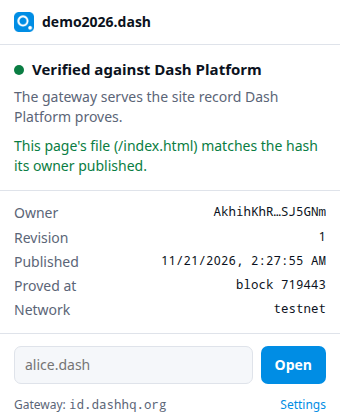
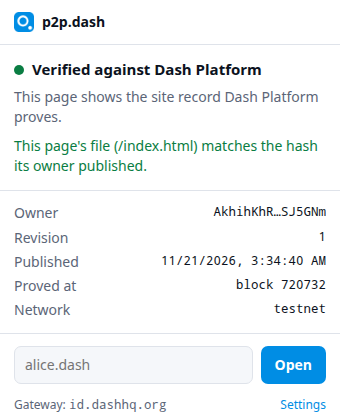
feat(showcase): explain in-browser verification and what is still trusted

diff --git a/packages/showcase/site/how/index.html b/packages/showcase/site/how/index.html
@@ -26,7 +26,7 @@
 <ol class="flow">
   <li>
     <div class="what">You ask for <span class="live" data-name>p2p.dash</span></div>
-    <p>Type the name with the extension installed, or open it through a gateway such as <code>p2p.id.dashhq.org</code>.</p>
+    <p>Open it through a gateway host such as <code>p2p.id.dashhq.org</code>, or type the name itself with the extension installed.</p>
   </li>
   <li>
     <div class="what">Name document <span class="live" id="r-domain">…</span><br>owned by <span class="live" id="r-owner">…</span></div>
@@ -46,21 +46,23 @@
   </li>
 </ol>
 
-<h2>Two ways to open a .dash site</h2>
+<h2>Who does the checking</h2>
 <div class="cols two">
   <div>
-    <h3>With the extension, by its real name</h3>
-    <p>Type <code>p2p.dash</code>. The extension takes you to a gateway of your choice, then asks Dash Platform itself and compares the answer, and the page's bytes, with what the gateway served.</p>
-    <figure>
-      <img class="shot" src="/img/extension.png" alt="The Dash Sites extension reporting a site as verified against Dash Platform" width="341" height="424" loading="lazy">
-      <figcaption>The extension reporting what it proved</figcaption>
-    </figure>
+    <h3>Your browser, in any browser</h3>
+    <p>Open <code>p2p.id.dashhq.org</code>. The gateway sends one small page, the same for every name, and a verifier. From then on your browser talks to Dash Platform nodes itself: it proves the name and the site record, fetches the files, checks each hash, and shows the site.</p>
+    <p class="via-browser">That is how you are reading this page. The server that sent the verifier has not seen or sent a byte of it.</p>
+    <p class="via-gateway">You are reading a copy rendered by the gateway instead, which it does for crawlers, link previews and command-line tools.</p>
+    <p>After the first visit the site keeps working even if the gateway disappears.</p>
   </div>
   <div>
-    <h3>In any browser, through a gateway</h3>
-    <p>Open <code>p2p.id.dashhq.org</code>. The gateway does the same lookups and checks, then serves the files over ordinary HTTPS. Nothing to install, and you are trusting the gateway to pass on what it read.</p>
-    <p class="via-gateway">That is how you are reading this page now. <a href="https://github.com/PastaPastaPasta/dash-sites/releases/latest" target="_blank" rel="noopener">Get the extension</a> to drop the gateway.</p>
-    <p>Anyone can run a gateway. The software is open source and holds no keys: it can only read what owners published.</p>
+    <h3>The extension, by its real name</h3>
+    <p>With the extension you type <code>p2p.dash</code> and land on the same verifier. Its button asks Dash Platform a second time, with its own copy of the SDK, and compares the answer with the page in front of you.</p>
+    <figure>
+      <img class="shot" src="/img/extension.png" alt="The Dash Sites extension reporting p2p.dash as verified against Dash Platform" width="340" height="420" loading="lazy">
+      <figcaption>The extension reporting what it proved</figcaption>
+    </figure>
+    <p style="margin-top:14px"><a href="https://github.com/PastaPastaPasta/dash-sites/releases/latest" target="_blank" rel="noopener">Get the extension</a></p>
   </div>
 </div>
 
@@ -69,6 +71,14 @@
   <div>
     <h3>The network's validators</h3>
     <p>A proof shows that a quorum of Dash masternodes signed the state a record belongs to. That is the same guarantee Dash Platform gives every application built on it.</p>
+  </div>
+  <div>
+    <h3>The list of validator keys</h3>
+    <p>To check a signature the verifier needs the quorums' public keys. Today the Dash SDK downloads them from a service run by Dash Core Group. Whoever controls that service is trusted not to lie about the keys.</p>
+  </div>
+  <div>
+    <h3>The verifier you were sent</h3>
+    <p>The checking code comes from the gateway's host. It is open source, the same file for every name, and its hash is published, but a dishonest host could send a different one. Running it from your own machine removes that.</p>
   </div>
   <div>
     <h3>The owner of the name</h3>

diff --git a/packages/showcase/site/js/site.js b/packages/showcase/site/js/site.js
@@ -6,7 +6,7 @@ export const bytes = (n) => (n < 1024 ? `${n} B` : `${(n / 1024).toFixed(n < 102
 export const stored = (file) => file.parts.reduce((sum, part) => sum + part[2], 0);
 
 const cache = new Map();
-/** Asks whatever is serving this site, a gateway or the extension, about Dash Platform. */
+/** Asks whatever is serving this site, the visitor's own browser or a gateway, about Dash Platform. */
 export function host(path) {
   if (!cache.has(path)) cache.set(path, fetch(HOST + path).then((response) => response.json()));
   return cache.get(path);
@@ -23,7 +23,7 @@ function set(id, text, title) {
 }
 
 const SERVED = {
-  gateway: 'A gateway read this from Dash Platform and proved it',
+  gateway: 'A gateway read this from Dash Platform and checked the proof',
   browser: 'Your browser read this from Dash Platform and checked the proof',
 };
 
@@ -49,7 +49,7 @@ async function fill() {
     if (stamp) stamp.dataset.state = 'proved';
     document.documentElement.dataset.served = r.servedBy;
   } catch {
-    set('r-by', 'The record shows when a Dash Sites gateway or the extension serves this site');
+    set('r-by', 'The record shows when this site is opened through a Dash Sites gateway');
     set('r-block', 'not read');
     if (stamp) stamp.dataset.state = 'failed';
   }

diff --git a/packages/showcase/site/inside/index.html b/packages/showcase/site/inside/index.html
@@ -32,8 +32,8 @@
 </div>
 
 <h2>Ask Dash Platform directly</h2>
-<p class="via-extension">Your extension already made these checks before it showed you this page. You can run them again here, inside the page.</p>
-<p>The check downloads the Dash SDK (about 9 MB, from the jsDelivr CDN) and connects to Dash Platform nodes from this browser tab. It proves who owns the name, proves the site record, reads every file from the network, and compares each one with what you were served.</p>
+<p class="via-browser">Your browser already made these checks before it showed you this page. This button makes them again from inside the page, with a separate copy of the SDK.</p>
+<p>The check downloads the Dash SDK (about 9 MB, from the jsDelivr CDN) and connects to Dash Platform nodes from this tab. It proves who owns the name, proves the site record, reads every file from the network, and compares each one with what you were served.</p>
 <div class="cta"><button class="button" id="check" type="button">Check this site</button></div>
 <ol class="log" id="log" aria-live="polite"></ol>
 </main>

diff --git a/packages/showcase/site/css/site.css b/packages/showcase/site/css/site.css
@@ -105,7 +105,8 @@ footer a{margin-left:auto}
 .flow .what::before{content:counter(step) ". ";color:var(--line)}
 .flow p{margin:0;font-size:16px}
 pre{font:14px/1.5 var(--mono);border:1.5px solid var(--paper);background:var(--deep);padding:14px 16px;margin:14px 0;overflow-x:auto;max-width:44rem}
-[data-served=extension] .via-gateway,[data-served=gateway] .via-extension,html:not([data-served]) .via-extension{display:none}
+.via-browser,.via-gateway{display:none}
+[data-served=browser] .via-browser,[data-served=gateway] .via-gateway{display:block}
 .steps{list-style:none;padding:0;margin:0;counter-reset:step}
 .steps>li{counter-increment:step;border-top:1.5px solid var(--paper);padding:26px 0 30px}
 .steps>li>h2{margin:0 0 .4em}

diff --git a/packages/showcase/site/index.html b/packages/showcase/site/index.html
@@ -67,7 +67,7 @@
     </div>
     <div>
       <h3>You can check what you were served</h3>
-      <p>Dash Platform answers with cryptographic proofs, so a reader does not have to trust the node it asked. The extension checks them on your machine; a gateway checks them for browsers without it. <a href="/inside/">Run the check yourself.</a></p>
+      <p>Dash Platform answers with cryptographic proofs, so a reader does not have to trust the node it asked. Your own browser checks them: the gateway only supplies the code that does it. <a href="/inside/">Run the check yourself.</a></p>
     </div>
   </div>
 </section>

diff --git a/packages/showcase/site/js/home.js b/packages/showcase/site/js/home.js
@@ -10,5 +10,5 @@ Promise.all([drawPlan(document.getElementById('plan'), readout), record()])
     count.title = `${plan.documents} file chunks, ${manifestDocuments} manifest, the site record and the name`;
   })
   .catch(() => {
-    readout.textContent = 'The plan is drawn from the site manifest, which a Dash Sites gateway or the extension provides.';
+    readout.textContent = 'The plan is drawn from the site manifest, which is available when the site is opened through a Dash Sites gateway.';
   });
